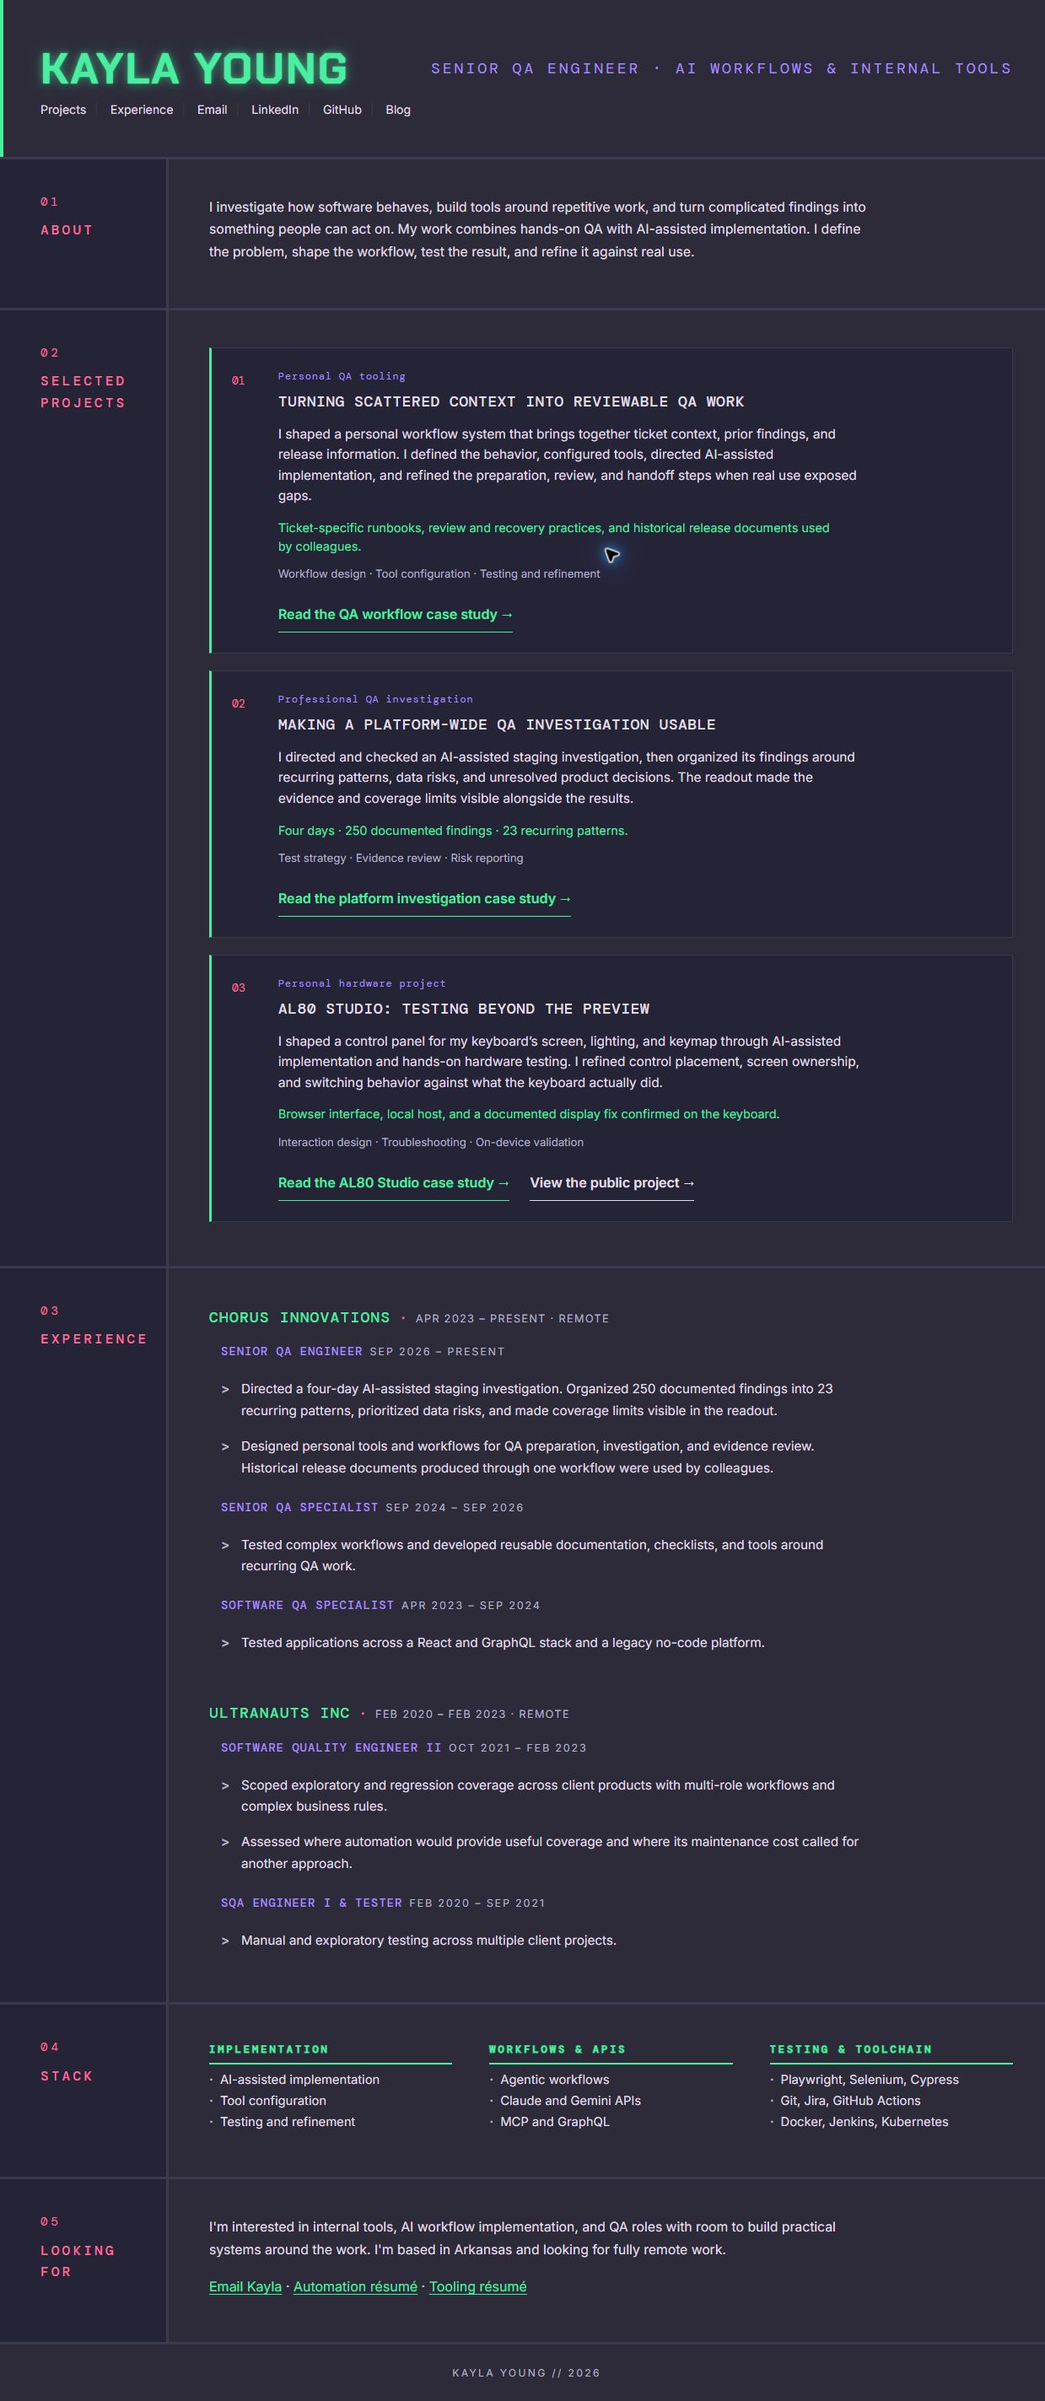
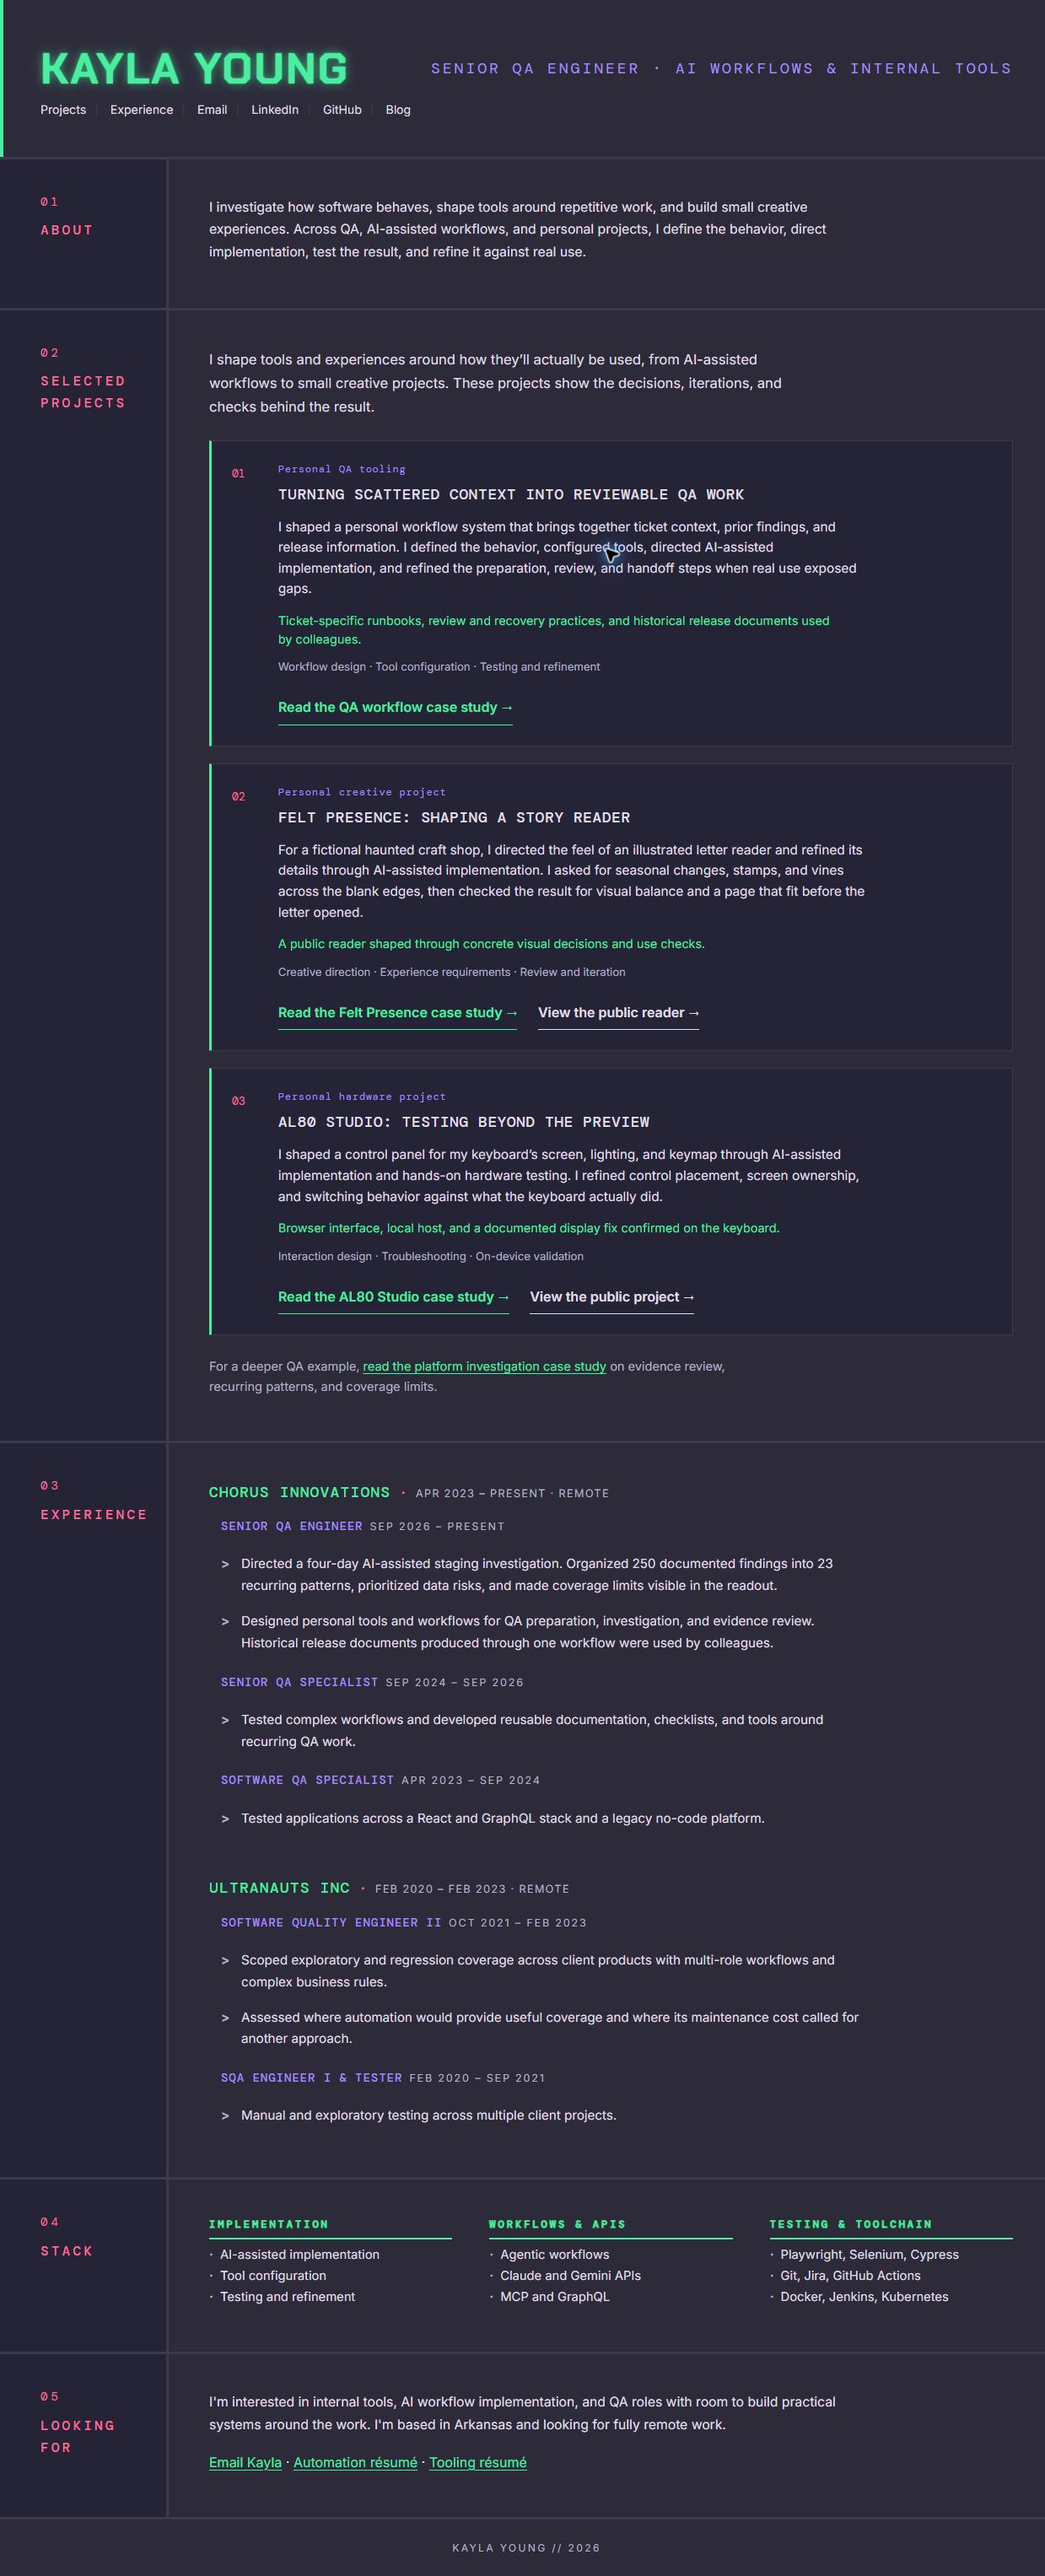
portfolio: feature personal creative work

diff --git a/portfolio/projects/felt-presence.html b/portfolio/projects/felt-presence.html
@@ -1,0 +1,32 @@
+<!DOCTYPE html>
+<html lang="en">
+<head>
+<meta charset="UTF-8"><meta name="viewport" content="width=device-width, initial-scale=1">
+<meta name="description" content="How Kayla Young shaped Felt Presence, an illustrated story reader for a fictional haunted craft shop.">
+<title>Felt Presence | Kayla Young</title>
+<link rel="preconnect" href="https://fonts.googleapis.com"><link rel="preconnect" href="https://fonts.gstatic.com" crossorigin>
+<link href="https://fonts.googleapis.com/css2?family=Chakra+Petch:wght@700&family=Inter:wght@400;500;600&family=DM+Mono:wght@400;500&display=swap" rel="stylesheet">
+<link rel="stylesheet" href="/assets/site.css"><link rel="stylesheet" href="case-study.css">
+<script defer src="/assets/site.js"></script>
+</head>
+<body>
+<a class="skip-link" href="#main-content">Skip to main content</a>
+<header class="case-header"><div class="case-header-inner"><a class="site-name" href="/portfolio/">Kayla Young</a><nav class="case-nav" aria-label="Site"><a href="/portfolio/#selected-projects">Projects</a><a href="/portfolio/#experience">Experience</a><a href="mailto:kayla@snackdriven.com">Contact</a></nav></div></header>
+<main id="main-content" class="case-shell">
+<a class="back-link" href="/portfolio/#selected-projects">&larr; Back to selected projects</a>
+<p class="case-kicker">Personal creative project</p>
+<h1>Felt Presence: shaping a story reader</h1>
+<p class="case-lead">I directed the experience of an illustrated letter reader for a fictional haunted craft shop, then refined its visual details and page behavior through review and AI-assisted implementation.</p>
+<dl class="case-facts"><div><dt>Context</dt><dd>Personal story and reader project</dd></div><div><dt>My role</dt><dd>Creative direction, experience requirements, implementation direction, review</dd></div><div><dt>Focus</dt><dd>Seasonal atmosphere, layout, and reading flow</dd></div><div><dt>Status</dt><dd><a href="https://felt-presence.snackdriven.com/">Public reader</a>; private source and story archive</dd></div></dl>
+<div class="case-layout">
+<nav class="contents" aria-label="On this page"><h2>Contents</h2><a href="#problem">Problem</a><a href="#decisions">Decisions</a><a href="#validation">Validation</a><a href="#evidence">Evidence</a><a href="#limits">Limits</a></nav>
+<article class="case-body">
+<section id="problem"><h2>Problem</h2><p>A letter from a tiny haunted craft shop needed a place to be read. I wanted the reader to carry the shop's handmade, seasonal character without making the page harder to use. The unopened letter and its illustration needed room to breathe, and the page needed to fit before the reader opened the letter.</p></section>
+<section id="decisions"><h2>Decisions and implementation</h2><p>I set the experience requirements and directed AI-assisted implementation. For the autumn version, I asked for stamps and a postmark, vines across the blank edges, more transparency, and fall colors. The first vine treatment felt too symmetrical and too confined to the corners, so I asked for looser growth, including a curl around a lower corner.</p><p>I also wanted the date and time to have one clear home. Repeated labels competed with the letter, so I consolidated them and removed unwanted scrolling from the unopened view. These were choices about what a reader sees first and how easily they can reach the story.</p>
+<figure><p class="figure-label">Illustrative reconstruction · No private story art</p><div class="reconstruction"><div><strong>Decision</strong>Let seasonal details reach the blank edges without crowding the letter.</div><div><strong>Iteration</strong>Reduce symmetry, soften the vines, and add warmer fall color.</div><div><strong>Check</strong>Review the unopened page at its intended size and remove scrolling that interrupted the opening view.</div></div><figcaption>This diagram summarizes a documented design cycle. It is not a screenshot of the reader or an example of private artwork.</figcaption></figure></section>
+<section id="validation"><h2>Validation and refinement</h2><p>I reviewed the page as an experience rather than treating each visual element as a separate deliverable. The vines needed to feel present across the empty space, but the letter still had to remain the focus. I checked the layout before opening a letter, caught the extra scroll, and asked for the date and time to be consolidated.</p><p>The result came from a sequence of specific requests, review, and correction. The check was whether the reader felt coherent and usable, not whether a first generated version looked decorative.</p></section>
+<section id="evidence"><h2>Evidence and result</h2><p>The public reader presents illustrated letters from the fictional shop. It provides a direct way to see the reading experience described here: <a href="https://felt-presence.snackdriven.com/">visit Felt Presence</a>.</p><p>My documented decisions include the seasonal treatment, stamp and postmark, vine placement and transparency, less symmetrical composition, removal of the unwanted initial scroll, and consolidation of date and time.</p></section>
+<section id="limits"><h2>Limits and lessons</h2><p>The source archive and original art references are private. This case uses a labeled diagram instead of copying story assets or presenting a reconstruction as an actual screen. My contribution is creative direction, requirements, implementation guidance, and iterative review. It does not imply that I hand-coded the reader or hold a professional design credential.</p><p>The lesson I keep from this work is practical: atmosphere lives in small decisions, and those decisions have to survive the actual reading flow.</p></section>
+<footer class="case-footer"><a href="al80-studio.html">Next: AL80 Studio &rarr;</a><a href="mailto:kayla@snackdriven.com">Contact Kayla</a></footer>
+</article></div></main>
+</body></html>

diff --git a/portfolio/index.html b/portfolio/index.html
@@ -3,9 +3,9 @@
 <head>
 <meta charset="UTF-8">
 <meta name="viewport" content="width=device-width, initial-scale=1.0">
-<meta name="description" content="Kayla Young, Senior QA Engineer. Selected QA investigations, personal workflow tools, and a hardware project.">
+<meta name="description" content="Kayla Young, Senior QA Engineer. Personal AI-assisted workflows, a story reader, and hands-on hardware projects.">
 <meta property="og:title" content="Kayla Young | Senior QA Engineer">
-<meta property="og:description" content="Selected QA investigations, personal workflow tools, and a hardware project.">
+<meta property="og:description" content="Selected personal workflows and creative projects, with the decisions and checks behind them.">
 <meta property="og:url" content="https://snackdriven.com/portfolio/">
 <meta property="og:type" content="website">
 <meta property="og:image" content="https://snackdriven.com/og-image.png">
@@ -39,11 +39,12 @@
 <main id="main-content">
 <section class="section" aria-labelledby="about-heading">
   <div class="section-label"><span class="section-number">01</span><h2 class="section-name" id="about-heading">About</h2></div>
-  <div class="section-content"><p class="about-text">I investigate how software behaves, build tools around repetitive work, and turn complicated findings into something people can act on. My work combines hands-on QA with AI-assisted implementation. I define the problem, shape the workflow, test the result, and refine it against real use.</p></div>
+  <div class="section-content"><p class="about-text">I investigate how software behaves, shape tools around repetitive work, and build small creative experiences. Across QA, AI-assisted workflows, and personal projects, I define the behavior, direct implementation, test the result, and refine it against real use.</p></div>
 </section>
 <section class="section print-hide" id="selected-projects" aria-labelledby="projects-heading">
   <div class="section-label"><span class="section-number">02</span><h2 class="section-name" id="projects-heading">Selected Projects</h2></div>
   <div class="section-content projects-content">
+    <p class="projects-intro">I shape tools and experiences around how they’ll actually be used, from AI-assisted workflows to small creative projects. These projects show the decisions, iterations, and checks behind the result.</p>
     <div class="project-list">
       <article class="project">
         <div class="project-num">01</div><div>
@@ -57,12 +58,13 @@
       </article>
       <article class="project">
         <div class="project-num">02</div><div>
-          <p class="project-tech">Professional QA investigation</p>
-          <h3 class="project-name">Making a platform-wide QA investigation usable</h3>
-          <p class="project-desc">I directed and checked an AI-assisted staging investigation, then organized its findings around recurring patterns, data risks, and unresolved product decisions. The readout made the evidence and coverage limits visible alongside the results.</p>
-          <p class="project-impact">Four days · 250 documented findings · 23 recurring patterns.</p>
-          <p class="project-context">Test strategy · Evidence review · Risk reporting</p>
-          <a class="project-link" href="projects/platform-investigation.html">Read the platform investigation case study <span aria-hidden="true">&rarr;</span></a>
+          <p class="project-tech">Personal creative project</p>
+          <h3 class="project-name">Felt Presence: shaping a story reader</h3>
+          <p class="project-desc">For a fictional haunted craft shop, I directed the feel of an illustrated letter reader and refined its details through AI-assisted implementation. I asked for seasonal changes, stamps, and vines across the blank edges, then checked the result for visual balance and a page that fit before the letter opened.</p>
+          <p class="project-impact">A public reader shaped through concrete visual decisions and use checks.</p>
+          <p class="project-context">Creative direction · Experience requirements · Review and iteration</p>
+          <a class="project-link" href="projects/felt-presence.html">Read the Felt Presence case study <span aria-hidden="true">&rarr;</span></a>
+          <a class="project-link project-link-secondary" href="https://felt-presence.snackdriven.com/">View the public reader <span aria-hidden="true">&rarr;</span></a>
         </div>
       </article>
       <article class="project">
@@ -77,6 +79,7 @@
         </div>
       </article>
     </div>
+    <p class="supporting-work">For a deeper QA example, <a href="projects/platform-investigation.html">read the platform investigation case study</a> on evidence review, recurring patterns, and coverage limits.</p>
   </div>
 </section>
 <section class="section" id="experience" aria-labelledby="experience-heading">

diff --git a/portfolio/projects/qa-workflow.html b/portfolio/projects/qa-workflow.html
@@ -28,6 +28,6 @@
 <section id="validation"><h2>Validation and refinement</h2><p>Real use exposed gaps. In one review, shortened comment text overstated what the investigation notes supported. I changed the review step to compare each claim against the underlying notes before the comment went out. A polished summary only helps when its claims still match the evidence.</p><p>I also asked for additional random trials after a repaired pilot passed its initial sample. When a separate impact viewer went unused, I moved its information into an existing work surface. A parallel-work pipeline was retired when its overhead did not earn a place in the workflow.</p></section>
 <section id="evidence"><h2>Evidence and output</h2><p>The system produced ticket-specific runbooks and review views. A historical release-documentation workflow assembled scope, status, and merge information into stakeholder documents distributed through Google Docs and Confluence. Colleagues used those documents.</p><p>My QA acceptance verdicts in those documents were user-authored. The surrounding prose was generated or aggregated through the AI-assisted workflow. Use of the documents does not imply coworkers installed or adopted the underlying tools.</p></section>
 <section id="limits"><h2>Limits and lessons</h2><p>This was personal tooling, not organization-wide infrastructure. The release-documentation automation was later retired. Its useful output also revealed maintenance issues, including stale information and environment distinctions that needed correction.</p><p>The practical test for a packet is whether I can begin work from it and see what it has not checked. That is why the review and missing-input states matter as much as the retrieval itself.</p></section>
-<footer class="case-footer"><a href="platform-investigation.html">Next: Platform investigation &rarr;</a><a href="mailto:kayla@snackdriven.com">Contact Kayla</a></footer>
+<footer class="case-footer"><a href="felt-presence.html">Next: Felt Presence &rarr;</a><a href="mailto:kayla@snackdriven.com">Contact Kayla</a></footer>
 </article></div></main>
 </body></html>

diff --git a/portfolio/portfolio.css b/portfolio/portfolio.css
@@ -714,6 +714,9 @@
 
 /* Selected work uses the site's existing project typography and section grid. */
 .projects-content { max-width: 1080px; width: 100%; }
+.projects-intro { max-width: 70ch; margin-bottom: 26px; font-size: 1.03rem; line-height: 1.7; }
+.supporting-work { max-width: 70ch; margin-top: 26px; color: var(--muted); font-size: .91rem; line-height: 1.6; }
+.supporting-work a { color: var(--green); text-decoration: underline; text-underline-offset: 3px; }
 .project-list { display: grid; gap: 20px; }
 .project {
   grid-template-columns: 2.3rem minmax(0, 1fr);
